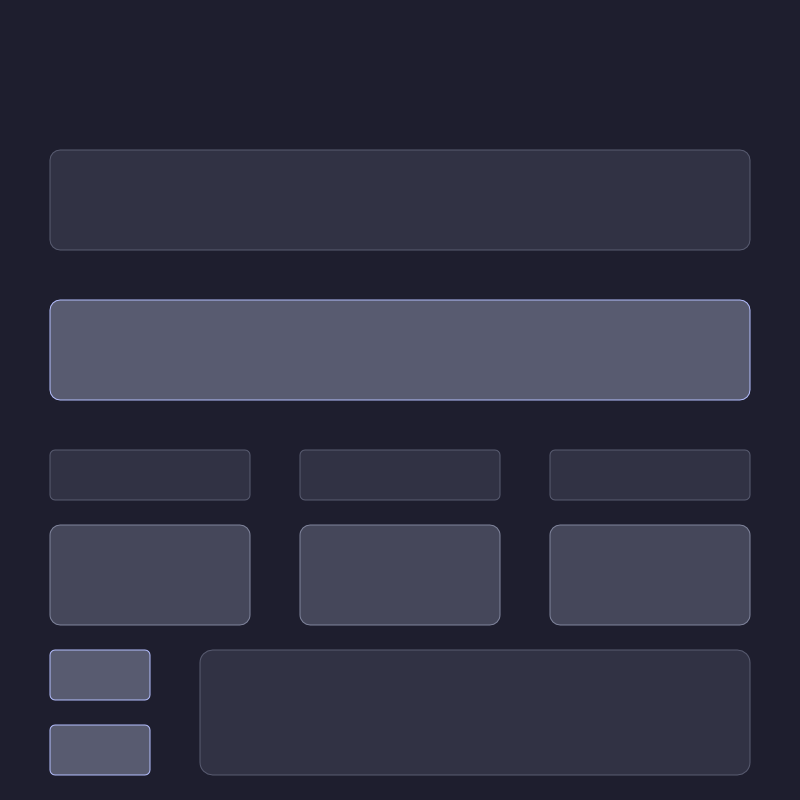
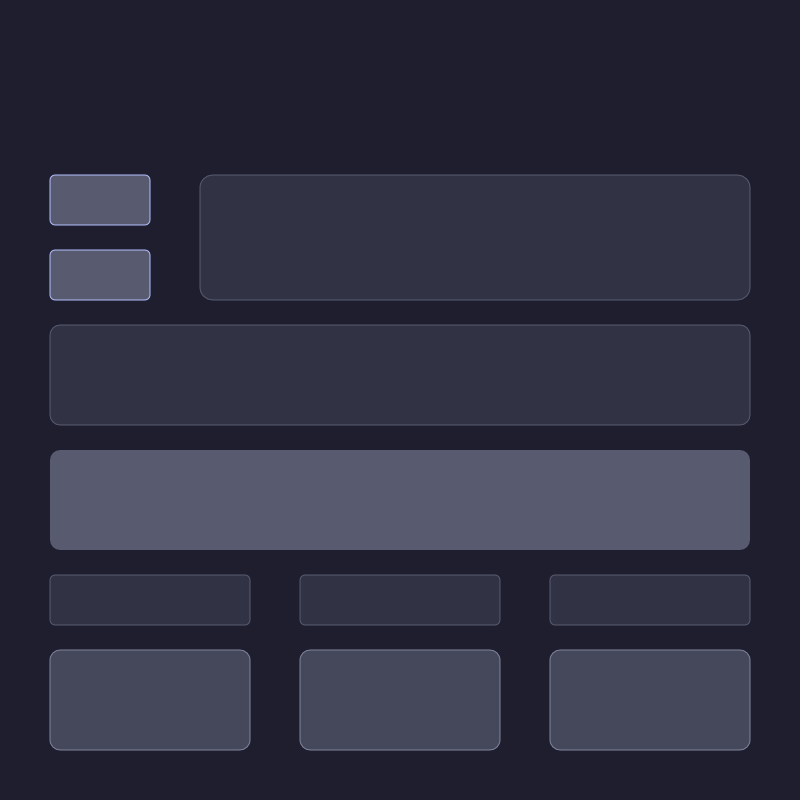
Project completion

diff --git a/TypingSpeedTester/main.py b/TypingSpeedTester/main.py
@@ -4,14 +4,17 @@ import random
 from prompt_library import WORD_BANK
 
 
-class Word_Generator:
+# ---------- Program Execution ---------- #
+class Typing_Program:
     def __init__(self):
+        """Contains the functions required to execute the typing program."""
         self.word_bank = WORD_BANK
         self.starting_time = 60
         self.elapsed_time = 0
         self.timer_running = False
 
     def start_button(self):
+        """Button functionality to start the program. Randomly selects words from the work bank, sets counters to 0, and starts a timer."""
         self.timer_running = True
         if self.elapsed_time == 0:
             self.current_paragraph = random.randint(0, len(self.word_bank) - 1)
@@ -25,6 +28,7 @@ class Word_Generator:
             self.update_words()
 
     def reset_button(self):
+        """Button functionality to stop/reset the program. Stops and resets the timer, clears GUI elements."""
         self.timer_running = False
         self.starting_time = 60
         self.elapsed_time = 0
@@ -39,16 +43,19 @@ class Word_Generator:
         user_input_label.config(state="normal")
 
     def update_words(self):
+        """Moves the sentence forward by one word."""
         self.current_word_index += 1
         self.active_word()
         self.previous_word()
         self.next_word()
 
     def active_word(self):
+        """Applies style to active word typist must duplicate."""
         self.displayed_word = self.word_bank[self.current_paragraph].split(" ")[self.current_word_index]
         canvas.itemconfig(active_word_label, text=self.displayed_word)
 
     def previous_word(self):
+        """Applies style to most previous word typist attempted to duplicate."""
         if self.current_word_index < 1:
             self.previous_displayed_word = ""
         else:
@@ -58,13 +65,15 @@ class Word_Generator:
         canvas.itemconfig(previous_word_label, text=self.previous_displayed_word)
 
     def next_word(self):
+        """Applies style to next word the typist will be asked to duplicate."""
         current_word_length = len(self.displayed_word)
         new_x_location = ((current_word_length + 1) * 17) + 380
         self.next_displayed_word = self.word_bank[self.current_paragraph].split(" ")[self.current_word_index + 1]
-        canvas.coords(next_word_label, new_x_location, 200)
+        canvas.coords(next_word_label, new_x_location, 375)
         canvas.itemconfig(next_word_label, text=self.next_displayed_word)
 
     def on_space(self, event):
+        """When user hits space key, the user input is obtained, checked for accuracy, added to words per minute count, and requests next word."""
         if self.timer_running:
             self.user_input = user_input_var.get()
             self.user_input_no_spaces = user_input_var.get().strip()
@@ -74,15 +83,17 @@ class Word_Generator:
             self.update_words()
 
     def on_entry_click(self, event):
+        """Clears entry box when cursor is inserted."""
         if user_input_var.get() != "":
             user_input_label.delete(0, "end")
 
     def count_characters(self, word):
+        """Count number of characters in user inputted word."""
         word_characters = len(word)
         self.total_character_count += word_characters
-        # self.update_word_score()
 
     def check_accuracy(self, word):
+        """Check if user inputted word matches the requested word."""
         self.total_word_count += 1
         if self.displayed_word == word:
             self.correct_word_count += 1
@@ -92,15 +103,18 @@ class Word_Generator:
         self.update_accuracy()
 
     def update_word_score(self):
+        """Update UI element for words per minute calculation."""
         if self.total_word_count > 0:
             words_per_minute = int(round((self.total_character_count / 5) / (self.elapsed_time / 60), 0))
             canvas.itemconfig(word_score, text=words_per_minute)
 
     def update_accuracy(self):
+        """Update UI element for user word accuracy"""
         word_accuracy = int(round((self.correct_word_count / self.total_word_count) * 100, 0))
         canvas.itemconfig(accuracy, text=word_accuracy)
 
     def timer(self, time, time_elapsed):
+        """Timer mechanism for typing program"""
         if self.timer_running:
             self.elapsed_time = time_elapsed
             canvas.itemconfig(timer, text=time)
@@ -116,8 +130,7 @@ class Word_Generator:
                 canvas.itemconfig(starting_word_label, text="Done! Hit 'Reset' To Go Again!")
 
 
-word = Word_Generator()
-
+run = Typing_Program()
 
 # ---------- GUI ---------- #
 # Constants
@@ -149,69 +162,69 @@ canvas.config(highlightthickness=0, borderwidth=0)
 canvas.place(x=0, y=0)
 
 # Title
-title_text = canvas.create_text(400, 75, anchor=CENTER, text="Arya's Typing Tester")
+title_text = canvas.create_text(400, 100, anchor=CENTER, text="Arya's Typing Tester")
 canvas.itemconfig(title_text, font=H1_FONT, fill=TEXT_COLOUR)
 
 # Word Prompt
-active_word_label = canvas.create_text(380, 200, anchor=W, text="")
+active_word_label = canvas.create_text(380, 375, anchor=W, text="")
 canvas.itemconfig(active_word_label, font=H2_FONT, fill=ACTIVE_TEXT_COLOUR)
-previous_word_label = canvas.create_text(360, 200, anchor=E, text="")
+previous_word_label = canvas.create_text(360, 375, anchor=E, text="")
 canvas.itemconfig(previous_word_label, font=H2_FONT, fill=TEXT_COLOUR)
-next_word_label = canvas.create_text(380, 200, anchor=W, text="")
+next_word_label = canvas.create_text(380, 375, anchor=W, text="")
 canvas.itemconfig(next_word_label, font=H2_FONT, fill=TEXT_ACCENT_COLOUR)
-starting_word_label = canvas.create_text(400, 200, anchor=CENTER, text="Ready? Hit 'Start' To Begin!")
+starting_word_label = canvas.create_text(400, 375, anchor=CENTER, text="Ready? Hit 'Start' To Begin!")
 canvas.itemconfig(starting_word_label, font=H2_FONT, fill=TEXT_COLOUR)
 
 # User Input
 user_input_var = StringVar()
 user_input_var.set("Place Cursor Here")
 user_input_label = Entry(window, textvariable=user_input_var)
-user_input_label.bind("<space>", word.on_space)
-user_input_label.bind("<FocusIn>", word.on_entry_click)
+user_input_label.bind("<space>", run.on_space)
+user_input_label.bind("<FocusIn>", run.on_entry_click)
 user_input_label.config(bg=BG_LIGHT, width=40, highlightthickness=0, border=0)
 user_input_label.config(justify=CENTER, font=BODY_FONT, fg=TEXT_COLOUR, insertbackground=TEXT_COLOUR)
-canvas.create_window(400, 350, window=user_input_label)
+canvas.create_window(400, 500, window=user_input_label)
 
 # Timer
-timer_label = canvas.create_text(150, 477, anchor=CENTER, text="Time Remaining")
+timer_label = canvas.create_text(150, 602, anchor=CENTER, text="Time Remaining")
 canvas.itemconfig(timer_label, font=H3_FONT, fill=TEXT_COLOUR)
-timer = canvas.create_text(150, 580, anchor=CENTER, text="--")
+timer = canvas.create_text(150, 705, anchor=CENTER, text="--")
 canvas.itemconfig(timer, font=H1_FONT, fill=TEXT_COLOUR)
 
 # Word Score
-word_score_label = canvas.create_text(400, 477, anchor=CENTER, text="Words Per Minute")
+word_score_label = canvas.create_text(400, 602, anchor=CENTER, text="Words Per Minute")
 canvas.itemconfig(word_score_label, font=H3_FONT, fill=TEXT_COLOUR)
-word_score = canvas.create_text(400, 580, anchor=CENTER, text="--")
+word_score = canvas.create_text(400, 705, anchor=CENTER, text="--")
 canvas.itemconfig(word_score, font=H1_FONT, fill=TEXT_COLOUR)
 
 # Accuracy
-accuracy_label = canvas.create_text(650, 477, anchor=CENTER, text="Accuracy (%)")
+accuracy_label = canvas.create_text(650, 602, anchor=CENTER, text="Accuracy (%)")
 canvas.itemconfig(accuracy_label, font=H3_FONT, fill=TEXT_COLOUR)
-accuracy = canvas.create_text(650, 580, anchor=CENTER, text="--")
+accuracy = canvas.create_text(650, 705, anchor=CENTER, text="--")
 canvas.itemconfig(accuracy, font=H1_FONT, fill=TEXT_COLOUR)
 
 # Start Button
-start_button = Button(text="START", command=word.start_button)
+start_button = Button(text="START", command=run.start_button)
 start_button.config(bg=BG_LIGHT, padx=19, pady=9, highlightthickness=0, border=0, activebackground=BG_LIGHT)
 start_button.config(fg=ACTIVE_TEXT_COLOUR, activeforeground=TEXT_ACCENT_COLOUR, font=H3_FONT)
-canvas.create_window(100, 679, window=start_button)
+canvas.create_window(100, 204, window=start_button)
 
 # Reset Button
-reset_button = Button(text="RESET", command=word.reset_button)
+reset_button = Button(text="RESET", command=run.reset_button)
 reset_button.config(bg=BG_LIGHT, padx=19, pady=9, highlightthickness=0, border=0, activebackground=BG_LIGHT)
 reset_button.config(fg=ACTIVE_TEXT_COLOUR, activeforeground=TEXT_ACCENT_COLOUR, font=H3_FONT)
-canvas.create_window(100, 754, window=reset_button)
+canvas.create_window(100, 279, window=reset_button)
 
 # Instructions
-instructions_label = canvas.create_text(475, 670, anchor=CENTER, text="~~ Instructions ~~")
+instructions_label = canvas.create_text(475, 195, anchor=CENTER, text="~~~ Instructions ~~~")
 canvas.itemconfig(instructions_label, font=H3_FONT, fill=TEXT_ACCENT_COLOUR)
-instructions_line_1 = canvas.create_text(210, 695, anchor=W, text="~ Place cursor in centre box and hit 'Start' button")
+instructions_line_1 = canvas.create_text(210, 220, anchor=W, text="~ Place cursor in centre box and hit 'Start' button")
 canvas.itemconfig(instructions_line_1, font=H4_FONT, fill=TEXT_ACCENT_COLOUR)
-instructions_line_2 = canvas.create_text(210, 715, anchor=W, text="~ Timer will run for 60 seconds")
+instructions_line_2 = canvas.create_text(210, 240, anchor=W, text="~ Timer will run for 60 seconds")
 canvas.itemconfig(instructions_line_2, font=H4_FONT, fill=TEXT_ACCENT_COLOUR)
-instructions_line_3 = canvas.create_text(210, 735, anchor=W, text="~ Hitting 'Space' moves to next word")
+instructions_line_3 = canvas.create_text(210, 260, anchor=W, text="~ Hitting 'Space' moves to next word")
 canvas.itemconfig(instructions_line_3, font=H4_FONT, fill=TEXT_ACCENT_COLOUR)
-instructions_line_4 = canvas.create_text(210, 755, anchor=W, text="~ Hit 'Reset' button to stop and go again")
+instructions_line_4 = canvas.create_text(210, 280, anchor=W, text="~ Hit 'Reset' button to stop and go again")
 canvas.itemconfig(instructions_line_4, font=H4_FONT, fill=TEXT_ACCENT_COLOUR)
 
 window.mainloop()

diff --git a/TypingSpeedTester/README.md b/TypingSpeedTester/README.md
@@ -1,40 +1,28 @@
 # Typing Speed Tester
 
-## ~~Create Basic GUI~~
+## Skills Used:
 
--   ~~Window with boxes:~~
-    -   ~~Title~~
-    -   ~~Word prompt~~
-    -   ~~User entry~~
+-   Python
+    -   Tkinter
+    -   Custom class & functions
+    -   Loops
+    -   Complex calculations
+-   UI/UX Design
+-   Affinity Designer
 
-## ~~Program Functionality~~
+## Instructions:
 
--   ~~Register user input~~
--   ~~Display prompts~~
--   ~~Create word bank~~
--   ~~Detect word accuracy~~
+-   Place your cursor in the light grey box in the centre of the window
+-   Once you click on the _Start_ button, a 60 second timer will begin
+-   Hitting the _Space_ key submits your typed word and moves to the next word
+-   You can hit _Reset_ to stop a typing session in process, or to clear results after a finished session
 
-## Finalize GUI
+## Methodology:
 
--   ~~Display past and upcoming words~~
--   ~~Create a background image~~
--   ~~Advanced functions:~~
-    -   ~~Timer~~
-    -   ~~WPM~~
-    -   ~~Accuracy~~
+-   Words per Minute (WPM) is calculated by the most commonly accepted metric of:
+    -   Number of Words = (Characters Typed / 5)
+    -   WPM = (Number of Words / 60)
+-   A character includes punctuation
+-   [Further details on common WPM calculation](https://www.speedtypingonline.com/typing-equations)
 
-## Bug Fixes
-
--   ~~Put Entry Label in background, not in entry box~~
--   ~~Centre input in entry box~~
--   ~~Create end/reset functions~~
--   ~~Ensure start can only be hit if timer not active~~
--   ~~End screen when timer up~~
--   ~~Remove some punctuation (;")~~
--   ~~Make word bank bigger~~
--   ~~Calculate WPM on time update, not on space~~
--   Refactor into multiple files/classes:
-    -   GUI
-    -   Logic
--   Better names for functions
--   Docstrings
+**Credit:** Word prompts are taken from Chapter 1 of Alice's Adventures in Wonderland by Lewis Carroll. This work is in the public domain and made available by [Project Gutenberg](https://www.gutenberg.org/ebooks/11).
